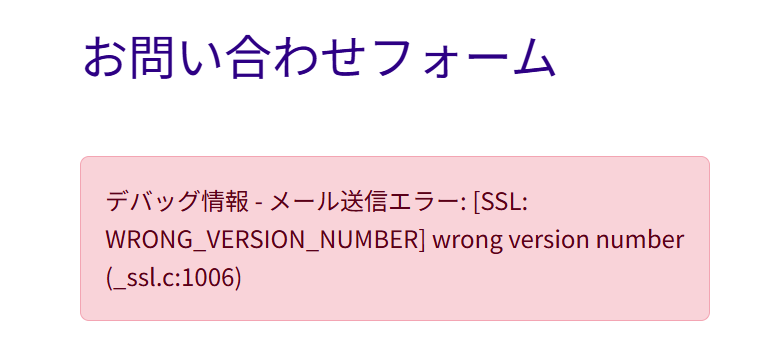
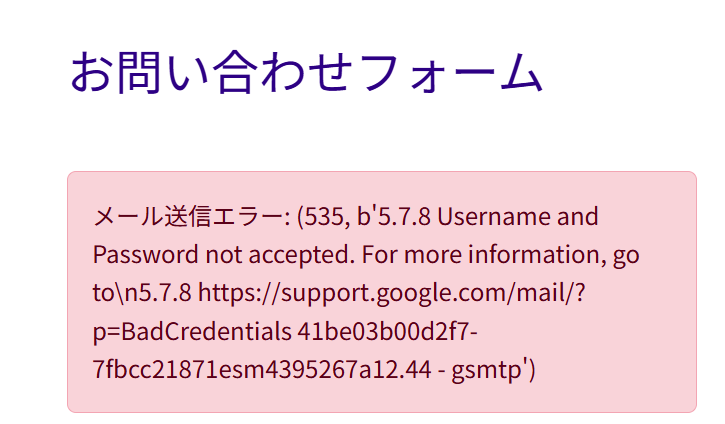
Agent query: お問い合わせフォームから問い合わせを送信し、以下の点を確認してください： 1. フォームが正しく送信できるか 2. エラー時のメッセージが適切に表示されるか

Changed region(s): [[0.091, 0.3812, 0.971, 0.9971], [0.091, 0.088, 0.7586, 0.2346]]

diff --git a/app.py b/app.py
@@ -19,13 +19,13 @@ app.config["SQLALCHEMY_ENGINE_OPTIONS"] = {
 }
 
 # メール設定
-app.config['MAIL_SERVER'] = 'smtp.gmail.com'
-app.config['MAIL_PORT'] = 587
-app.config['MAIL_USERNAME'] = os.environ.get('MAIL_USERNAME')
-app.config['MAIL_PASSWORD'] = 'connectsol2024'
+app.config['MAIL_SERVER'] = os.environ.get('XSERVER_SMTP_HOST')
+app.config['MAIL_PORT'] = int(os.environ.get('MAIL_PORT', '587'))
+app.config['MAIL_USERNAME'] = os.environ.get('XSERVER_SMTP_USER')
+app.config['MAIL_PASSWORD'] = os.environ.get('XSERVER_SMTP_PASSWORD')
 app.config['MAIL_USE_TLS'] = True
 app.config['MAIL_USE_SSL'] = False
-app.config['MAIL_DEFAULT_SENDER'] = os.environ.get('MAIL_USERNAME')
+app.config['MAIL_DEFAULT_SENDER'] = os.environ.get('XSERVER_SMTP_USER')
 app.config['MAIL_DEBUG'] = True  # デバッグログを有効化
 app.config['MAIL_MAX_EMAILS'] = None
 app.config['MAIL_SUPPRESS_SEND'] = False
